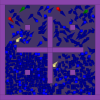
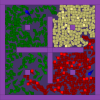
more win tweaks

diff --git a/2026/double-dvd/main.js b/2026/double-dvd/main.js
@@ -2,9 +2,9 @@ const blockSize = 32;
 const blockSpeed = 3;
 const blockTrailLength = 20;
 const initialColourBlocks = 2;
-const maxBlockCount = 2500;
 const width = window.innerWidth;
 const height = window.innerHeight;
+const maxBlockCount = Math.min((width * height) / (blockSize ** 2) * 0.75, 2000);
 const wallSize = 64;
 const floorColour = '#436';
 const wallColour = '#84a';
@@ -187,16 +187,18 @@ function update() {
               updateDxdy(otherBlock, oppositeDxdy(collisionDxdy));
             }
           } else if (block.fill === otherBlock.fill && block.cooldownLeft <= 0 && otherBlock.cooldownLeft <= 0) {
-            removeBlocks.add(block);
-            removeBlocks.add(otherBlock);
             const midX = Math.round((block.x + otherBlock.x) / 2);
             const midY = Math.round((block.y + otherBlock.y) / 2);
-            addBlocks.push(
-              createBlock(midX, midY, -blockSpeed, -blockSpeed, block.fill, block.trailFill),
-              createBlock(midX + blockSize + 1, midY, blockSpeed, -blockSpeed, block.fill, block.trailFill),
-              createBlock(midX, midY + blockSize + 1, -blockSpeed, blockSpeed, block.fill, block.trailFill),
-              createBlock(midX + blockSize + 1, midY + blockSize + 1, blockSpeed, blockSpeed, block.fill, block.trailFill),
-            );
+            if (collisionGrid.inRange(midX, midY) && collisionGrid.array[collisionGrid.getCellIndex(midX, midY)].length < (collisionGrid.cellSize ** 2) / (blockSize ** 2)) {
+              removeBlocks.add(block);
+              removeBlocks.add(otherBlock);
+              addBlocks.push(
+                createBlock(midX, midY, -blockSpeed, -blockSpeed, block.fill, block.trailFill),
+                createBlock(midX + blockSize + 1, midY, blockSpeed, -blockSpeed, block.fill, block.trailFill),
+                createBlock(midX, midY + blockSize + 1, -blockSpeed, blockSpeed, block.fill, block.trailFill),
+                createBlock(midX + blockSize + 1, midY + blockSize + 1, blockSpeed, blockSpeed, block.fill, block.trailFill),
+              );
+            }
           } else {
             if (colourTally[block.fill] > colourTally[otherBlock.fill]) {
               removeBlocks.add(block);
@@ -217,7 +219,7 @@ function update() {
     blocks.push(block);
   }
 
-  if (blocks.length >= maxBlockCount) {
+  if (!winner && blocks.length >= maxBlockCount) {
     let highestCount = 0;
     let highestColour = null;
     for (const colour in colourTally) {